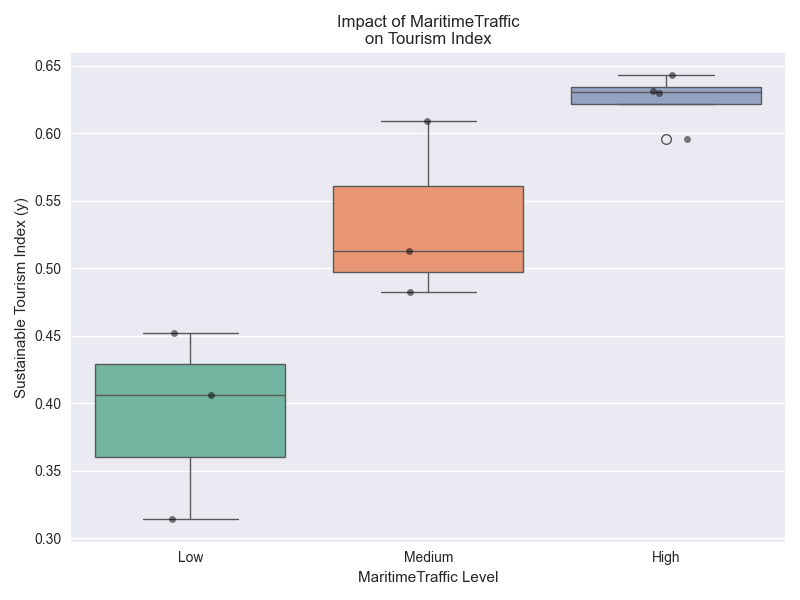
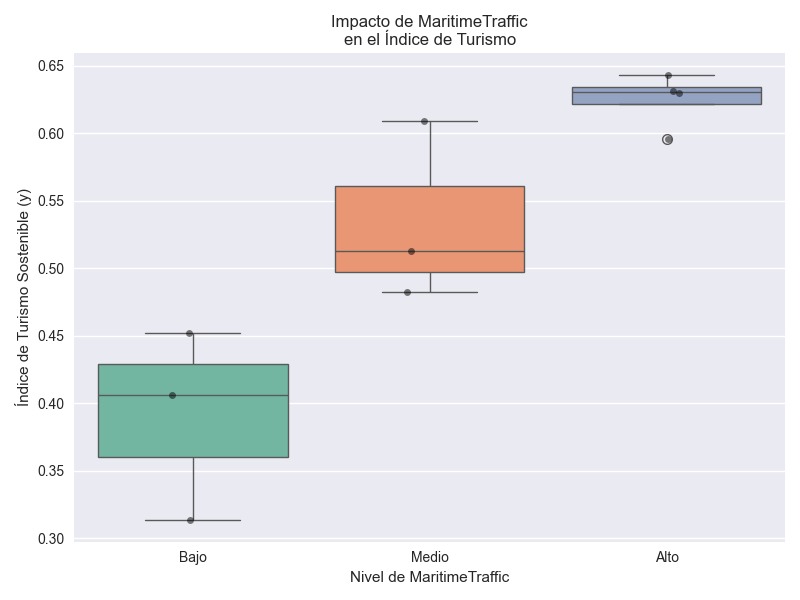
Modifiqué el código para que la información de las tablas y gráficas se presentara en español.

diff --git a/mallorca_analysis_V2.py b/mallorca_analysis_V2.py
@@ -13,7 +13,7 @@ warnings.filterwarnings('ignore')
 plt.style.use('seaborn-v0_8')
 
 # ==========================================
-# 0. LOGGING SETUP
+# 0. CONFIGURACIÓN DE REGISTRO (LOGGING)
 # ==========================================
 class Logger(object):
     def __init__(self, filename='optimization_results_dropNA_normalized.txt'):
@@ -32,15 +32,16 @@ class Logger(object):
 sys.stdout = Logger()
 
 print("=====================================================================")
-print("      OPTIMIZATION REPORT - STRATEGY B: LISTWISE DELETION            ")
-print("      (With Separate Windows for Every Plot)                         ")
+print("      INFORME DE OPTIMIZACIÓN - ESTRATEGIA B: ELIMINACIÓN POR LISTA  ")
+print("      (Priorizando Integridad de Datos sobre Longitud Histórica)     ")
+print("      (Con Ventanas Separadas para cada Gráfico)                     ")
 print("=====================================================================\n")
 
 # ==========================================
-# 1. LOAD DATA
+# 1. CARGA DE DATOS
 # ==========================================
 if not os.path.exists("Mallorca.csv"):
-    print("Error: 'Mallorca.csv' not found.")
+    print("Error: No se encontró el archivo 'Mallorca.csv'.")
     exit()
 
 df = pd.read_csv("Mallorca.csv")
@@ -50,24 +51,24 @@ if 'Year' in df.columns:
 df.sort_index(inplace=True)
 
 # ==========================================
-# 2. DATA CLEANING (ROBUST FIX)
+# 2. LIMPIEZA DE DATOS (ARREGLO ROBUSTO)
 # ==========================================
-print("\n--- Cleaning Strategy B: Dropping Rows with Missing Values ---")
+print("\n--- Estrategia de Limpieza B: Eliminación de filas con valores faltantes ---")
 
 target_col = 'SustainableTourismIndex'
 
-# 1. Drop NA rows first
+# 1. Eliminar filas con NA primero
 df_clean = df.dropna()
 
-# 2. SEPARATE TARGET (y) AND FEATURES (X)
+# 2. SEPARAR OBJETIVO (y) Y VARIABLES (X)
 if target_col in df_clean.columns:
     y = df_clean[target_col]
     X = df_clean.drop(columns=[target_col])
-    # Safety: Drop 'y' if it exists in X from a previous run
+    # Seguridad: Eliminar 'y' si existe en X de una ejecución anterior
     if 'y' in X.columns: X = X.drop(columns=['y'])
 else:
-    # If target missing, calculate it
-    print(f"Target column '{target_col}' not found. Calculating index...")
+    # Si falta el objetivo, calcularlo
+    print(f"Columna objetivo '{target_col}' no encontrada. Calculando índice...")
     X = df_clean.copy()
     if 'y' in X.columns: X = X.drop(columns=['y'])
     
@@ -75,103 +76,103 @@ else:
     weights = [1/len(X.columns)] * len(X.columns)
     y = X_norm_calc.dot(weights)
 
-# Add y back to df_clean for EDA purposes (but keep X pure for regression)
+# Añadir y de nuevo a df_clean para propósitos de EDA (pero mantener X puro para regresión)
 df_clean['y'] = y
 
-# Final Safety Check for Data Leakage
+# Chequeo Final de Seguridad para Fuga de Datos
 common_cols = set(X.columns).intersection(set(['y', target_col]))
 if common_cols:
     X = X.drop(columns=list(common_cols))
 
-print(f"Final Clean Dataset shape: {df_clean.shape}")
+print(f"Dimensiones del Dataset Final Limpio: {df_clean.shape}")
 
 # ==============================================================================
-# PART 1: EXPLORATORY DATA ANALYSIS (SEPARATE WINDOWS)
+# PARTE 1: ANÁLISIS EXPLORATORIO DE DATOS (VENTANAS SEPARADAS)
 # ==============================================================================
 def exploratory_data_analysis(df):
     print("\n" + "="*60)
-    print("PART 1: EXPLORATORY DATA ANALYSIS")
+    print("PARTE 1: ANÁLISIS EXPLORATORIO DE DATOS")
     print("="*60)
     
-    # --- Plot 1: Time Series ---
+    # --- Gráfico 1: Serie Temporal ---
     plt.figure(figsize=(10, 6))
     plt.plot(df.index, df['y'], marker='o', color='purple', linewidth=2)
-    plt.title('Sustainable Tourism Index over Time')
-    plt.ylabel('Index Value')
-    plt.xlabel('Year')
+    plt.title('Índice de Turismo Sostenible a lo largo del tiempo')
+    plt.ylabel('Valor del Índice')
+    plt.xlabel('Año')
     plt.grid(True)
     plt.tight_layout()
-    plt.savefig('EDA_TimeSeries.png')
-    print("Displaying Time Series Plot... (Close window to continue)")
+    plt.savefig('EDA_SerieTemporal.png')
+    print("Mostrando Gráfico de Serie Temporal... (Cierre la ventana para continuar)")
     plt.show()
     
-    # --- Plot 2: Correlation Matrix ---
+    # --- Gráfico 2: Matriz de Correlación ---
     plt.figure(figsize=(10, 8))
     sns.heatmap(df.corr(), annot=True, fmt=".2f", cmap='coolwarm')
-    plt.title('Correlation Matrix')
+    plt.title('Matriz de Correlación')
     plt.tight_layout()
-    plt.savefig('EDA_Correlation.png')
-    print("Displaying Correlation Matrix... (Close window to continue)")
+    plt.savefig('EDA_Correlacion.png')
+    print("Mostrando Matriz de Correlación... (Cierre la ventana para continuar)")
     plt.show()
     
-    # --- B. Box Plots for Key Predictors ---
-    print("\nGenerating Box Plots for Top Predictors...")
+    # --- B. Diagramas de Caja para Predictores Clave ---
+    print("\nGenerando Diagramas de Caja para Predictores Principales...")
     key_vars = ['MaritimeTraffic', 'PassengersArriving', 'Poverty']
     valid_vars = [v for v in key_vars if v in df.columns]
     
     if valid_vars:
         for col in valid_vars:
-            # Create a separate figure for EACH variable
+            # Crear una figura separada para CADA variable
             plt.figure(figsize=(8, 6))
             
-            # Create bins for the continuous variable
+            # Crear bins para la variable continua
             plot_df = df.copy()
             try:
-                plot_df['Category'] = pd.qcut(plot_df[col], q=3, labels=["Low", "Medium", "High"])
+                plot_df['Category'] = pd.qcut(plot_df[col], q=3, labels=["Bajo", "Medio", "Alto"])
             except ValueError:
-                plot_df['Category'] = pd.cut(plot_df[col], bins=3, labels=["Low", "Medium", "High"])
+                plot_df['Category'] = pd.cut(plot_df[col], bins=3, labels=["Bajo", "Medio", "Alto"])
             
             sns.boxplot(x='Category', y='y', data=plot_df, palette="Set2")
             sns.stripplot(x='Category', y='y', data=plot_df, color='black', alpha=0.5)
             
-            plt.title(f'Impact of {col}\non Tourism Index')
-            plt.ylabel('Sustainable Tourism Index (y)')
-            plt.xlabel(f'{col} Level')
+            plt.title(f'Impacto de {col}\nen el Índice de Turismo')
+            plt.ylabel('Índice de Turismo Sostenible (y)')
+            plt.xlabel(f'Nivel de {col}')
             
             plt.tight_layout()
             plt.savefig(f'EDA_BoxPlot_{col}.png')
-            print(f"Displaying Box Plot for {col}... (Close window to continue)")
+            print(f"Mostrando Diagrama de Caja para {col}... (Cierre la ventana para continuar)")
             plt.show()
     else:
-        print("Warning: Requested variables for box plots not found in dataset.")
+        print("Advertencia: Las variables solicitadas para los diagramas de caja no se encontraron en el dataset.")
 
 exploratory_data_analysis(df_clean.copy())
 
 # ==============================================================================
-# PART 2: REGRESSION ANALYSIS
+# PARTE 2: ANÁLISIS DE REGRESIÓN
 # ==============================================================================
 def compare_regression_methods(X_data, y_data):
     print("\n" + "="*60)
-    print("PART 2: REGRESSION ANALYSIS")
+    print("PARTE 2: ANÁLISIS DE REGRESIÓN")
     print("="*60)
     
     n_samples, n_features = X_data.shape
     feature_names = X_data.columns.tolist()
     results_list = []
 
-    # --- 1. L2 Norm (OLS) ---
+    # --- 1. Norma L2 (Mínimos Cuadrados Ordinarios - OLS) ---
     l2_model = LinearRegression()
     l2_model.fit(X_data, y_data)
     l2_pred = l2_model.predict(X_data)
     
     results_list.append({
-        "Model": "L2 (Least Squares)", 
+        "Modelo": "L2 (Mínimos Cuadrados)", 
         "MAE": mean_absolute_error(y_data, l2_pred), 
         "R2": r2_score(y_data, l2_pred)
     })
 
-    # --- 2. L1 Norm (LAD) ---
-    prob_l1 = LpProblem("L1_Regression", LpMinimize)
+    # --- 2. Norma L1 (Mínimas Desviaciones Absolutas - LAD) ---
+    prob_l1 = LpProblem("Regresion_L1", LpMinimize)
     beta = [LpVariable(f"b_{j}", cat='Continuous') for j in range(n_features)]
     beta0 = LpVariable("b0", cat='Continuous')
     u = [LpVariable(f"u_{i}", lowBound=0) for i in range(n_samples)]
@@ -185,13 +186,13 @@ def compare_regression_methods(X_data, y_data):
     
     l1_pred = [value(beta0) + sum(value(beta[j]) * X_data.iloc[i,j] for j in range(n_features)) for i in range(n_samples)]
     results_list.append({
-        "Model": "L1 (Least Abs Dev)", 
+        "Modelo": "L1 (Mínimas Desv. Abs.)", 
         "MAE": mean_absolute_error(y_data, l1_pred), 
         "R2": r2_score(y_data, l1_pred)
     })
 
-    # --- 3. L_inf Norm (Minimax) ---
-    prob_inf = LpProblem("L_inf_Regression", LpMinimize)
+    # --- 3. Norma L-inf (Minimax) ---
+    prob_inf = LpProblem("Regresion_L_inf", LpMinimize)
     beta_inf = [LpVariable(f"bi_{j}", cat='Continuous') for j in range(n_features)]
     beta0_inf = LpVariable("bi0", cat='Continuous')
     max_dev = LpVariable("max_dev", lowBound=0)
@@ -205,14 +206,14 @@ def compare_regression_methods(X_data, y_data):
     
     linf_pred = [value(beta0_inf) + sum(value(beta_inf[j]) * X_data.iloc[i,j] for j in range(n_features)) for i in range(n_samples)]
     results_list.append({
-        "Model": "L_inf (Minimax)", 
+        "Modelo": "L_inf (Minimax)", 
         "MAE": mean_absolute_error(y_data, linf_pred), 
         "R2": r2_score(y_data, linf_pred)
     })
     
-    # --- PRINT EQUATIONS ---
+    # --- IMPRIMIR ECUACIONES ---
     print("\n" + "-"*30)
-    print("MODEL EQUATIONS (Coefficients)")
+    print("ECUACIONES DEL MODELO (Coeficientes)")
     print("-"*30)
     
     l2_coeffs = dict(zip(feature_names, l2_model.coef_))
@@ -225,24 +226,40 @@ def compare_regression_methods(X_data, y_data):
     print(f"\n[L_inf Minimax] y = {value(beta0_inf):.4f} + " + " + ".join([f"{coef:.4f}*{name}" for name, coef in linf_coeffs.items()]))
     print("-" * 60)
 
-    # Print Metrics
+    # Imprimir Métricas
     res_df = pd.DataFrame(results_list)
     print("\n" + res_df.to_string(index=False))
     
-    # Plot Comparison (Separate Window)
-    plt.figure(figsize=(10, 6))
-    plt.plot(y_data.index, y_data, 'ko-', label='Actual')
-    plt.plot(y_data.index, l2_pred, 'g--', label='L2 Pred')
-    plt.title("Regression Comparison")
+    # Gráfico de Comparación (Ventana Separada)
+    plt.figure(figsize=(12, 7))
+    
+    # 1. Datos Reales (Puntos Grandes)
+    plt.plot(y_data.index, y_data, 'ko', label='Real', markersize=10, zorder=5)
+    
+    # 2. L2 (Linea Gruesa, Verde)
+    plt.plot(y_data.index, l2_pred, 'g-', label='L2 (Mín Cuadrados)', linewidth=4, alpha=0.5)
+    
+    # 3. L1 (Linea Media, Roja Punteada)
+    plt.plot(y_data.index, l1_pred, 'r--', label='L1 (Mín Desv Abs)', linewidth=2.5)
+    
+    # 4. L-inf (Linea Fina, Azul)
+    plt.plot(y_data.index, linf_pred, 'b:', label='L-inf (Minimax)', linewidth=2)
+    
+    plt.title("Comparación de Modelos de Regresión (Superpuestos por Ajuste Perfecto)")
     plt.legend()
+    plt.ylabel('Valor del Índice')
+    plt.xlabel('Año')
+    plt.grid(True, alpha=0.3)
+    plt.tight_layout()
+    
     plt.savefig('Regression_Comparison.png')
-    print("Displaying Regression Comparison... (Close window to continue)")
+    print("Mostrando Comparación de Regresión... (Cierre la ventana para continuar)")
     plt.show()
 
 compare_regression_methods(X, y)
 
 # ==============================================================================
-# PART 3: COUNTERFACTUAL OPTIMIZATION
+# PARTE 3: OPTIMIZACIÓN CONTRAFACTUAL
 # ==============================================================================
 def solve_counterfactual_robust(target_increase_pct, max_vars=None, logical_constraints=False, description=""):
     print(f"\n{description}")
@@ -258,7 +275,7 @@ def solve_counterfactual_robust(target_increase_pct, max_vars=None, logical_cons
     p = len(X.columns)
     feature_names = X.columns.tolist()
     
-    prob = LpProblem("Counterfactual_Optimization", LpMinimize)
+    prob = LpProblem("Optimizacion_Contrafactual", LpMinimize)
     
     beta = [LpVariable(f"beta_{i}", lowBound=0, upBound=1-x_current[i]) for i in range(p)]
     delta = [LpVariable(f"delta_{i}", cat='Binary') for i in range(p)]
@@ -290,22 +307,28 @@ def solve_counterfactual_robust(target_increase_pct, max_vars=None, logical_cons
     if prob.status == LpStatusOptimal:
         beta_values = [beta[i].varValue for i in range(p)]
         new_y = y_current + np.dot(beta_values, weights)
-        print("Recommended Changes:")
+        print("Cambios Recomendados:")
         for i in range(p):
             if delta[i].varValue > 0.5:
-                # Denormalize
+                # Desnormalizar
                 scale = X.iloc[:, i].max() - X.iloc[:, i].min()
                 if scale == 0: scale = 1
                 real_change = beta_values[i] * scale
                 print(f"  {feature_names[i]}: +{real_change:,.2f} (Real)")
-        print(f"Target: {target_increase_pct*100:.1f}% -> Achieved: {(new_y - y_current)/y_current*100:.2f}%")
+        print(f"Objetivo: {target_increase_pct*100:.1f}% -> Logrado: {(new_y - y_current)/y_current*100:.2f}%")
     else:
-        print("No feasible solution.")
+        print("No se encontró solución factible.")
 
 print("\n" + "="*60)
-print("PART 3: COUNTERFACTUAL SCENARIOS")
+print("PARTE 3: ESCENARIOS CONTRAFACTUALES")
 print("="*60)
-solve_counterfactual_robust(0.01, description="Q7a: 1% Increase")
-solve_counterfactual_robust(0.05, max_vars=4, description="Q7b: 5% Increase (Max 4 vars)")
-solve_counterfactual_robust(0.25, max_vars=1, description="Q8: 25% Increase (1 var)")
-solve_counterfactual_robust(0.01, logical_constraints=True, description="Q10: Logic Test")
+solve_counterfactual_robust(0.01, description="Q7a: Incremento del 1%")
+solve_counterfactual_robust(0.05, max_vars=4, description="Q7b: Incremento del 5% (Máx 4 vars)")
+solve_counterfactual_robust(0.25, max_vars=1, description="Q8: Incremento del 25% (1 var)")
+solve_counterfactual_robust(0.01, logical_constraints=True, description="Q10: Prueba Lógica")
+
+print("\n=====================================================================")
+print("                       ANÁLISIS COMPLETO                             ")
+print("Todos los resultados guardados en: 'optimization_results_dropNA_normalized.txt'")
+print("Visualizaciones guardadas como: 'EDA_*.png', 'Regression_Comparison.png'")
+print("=====================================================================")
